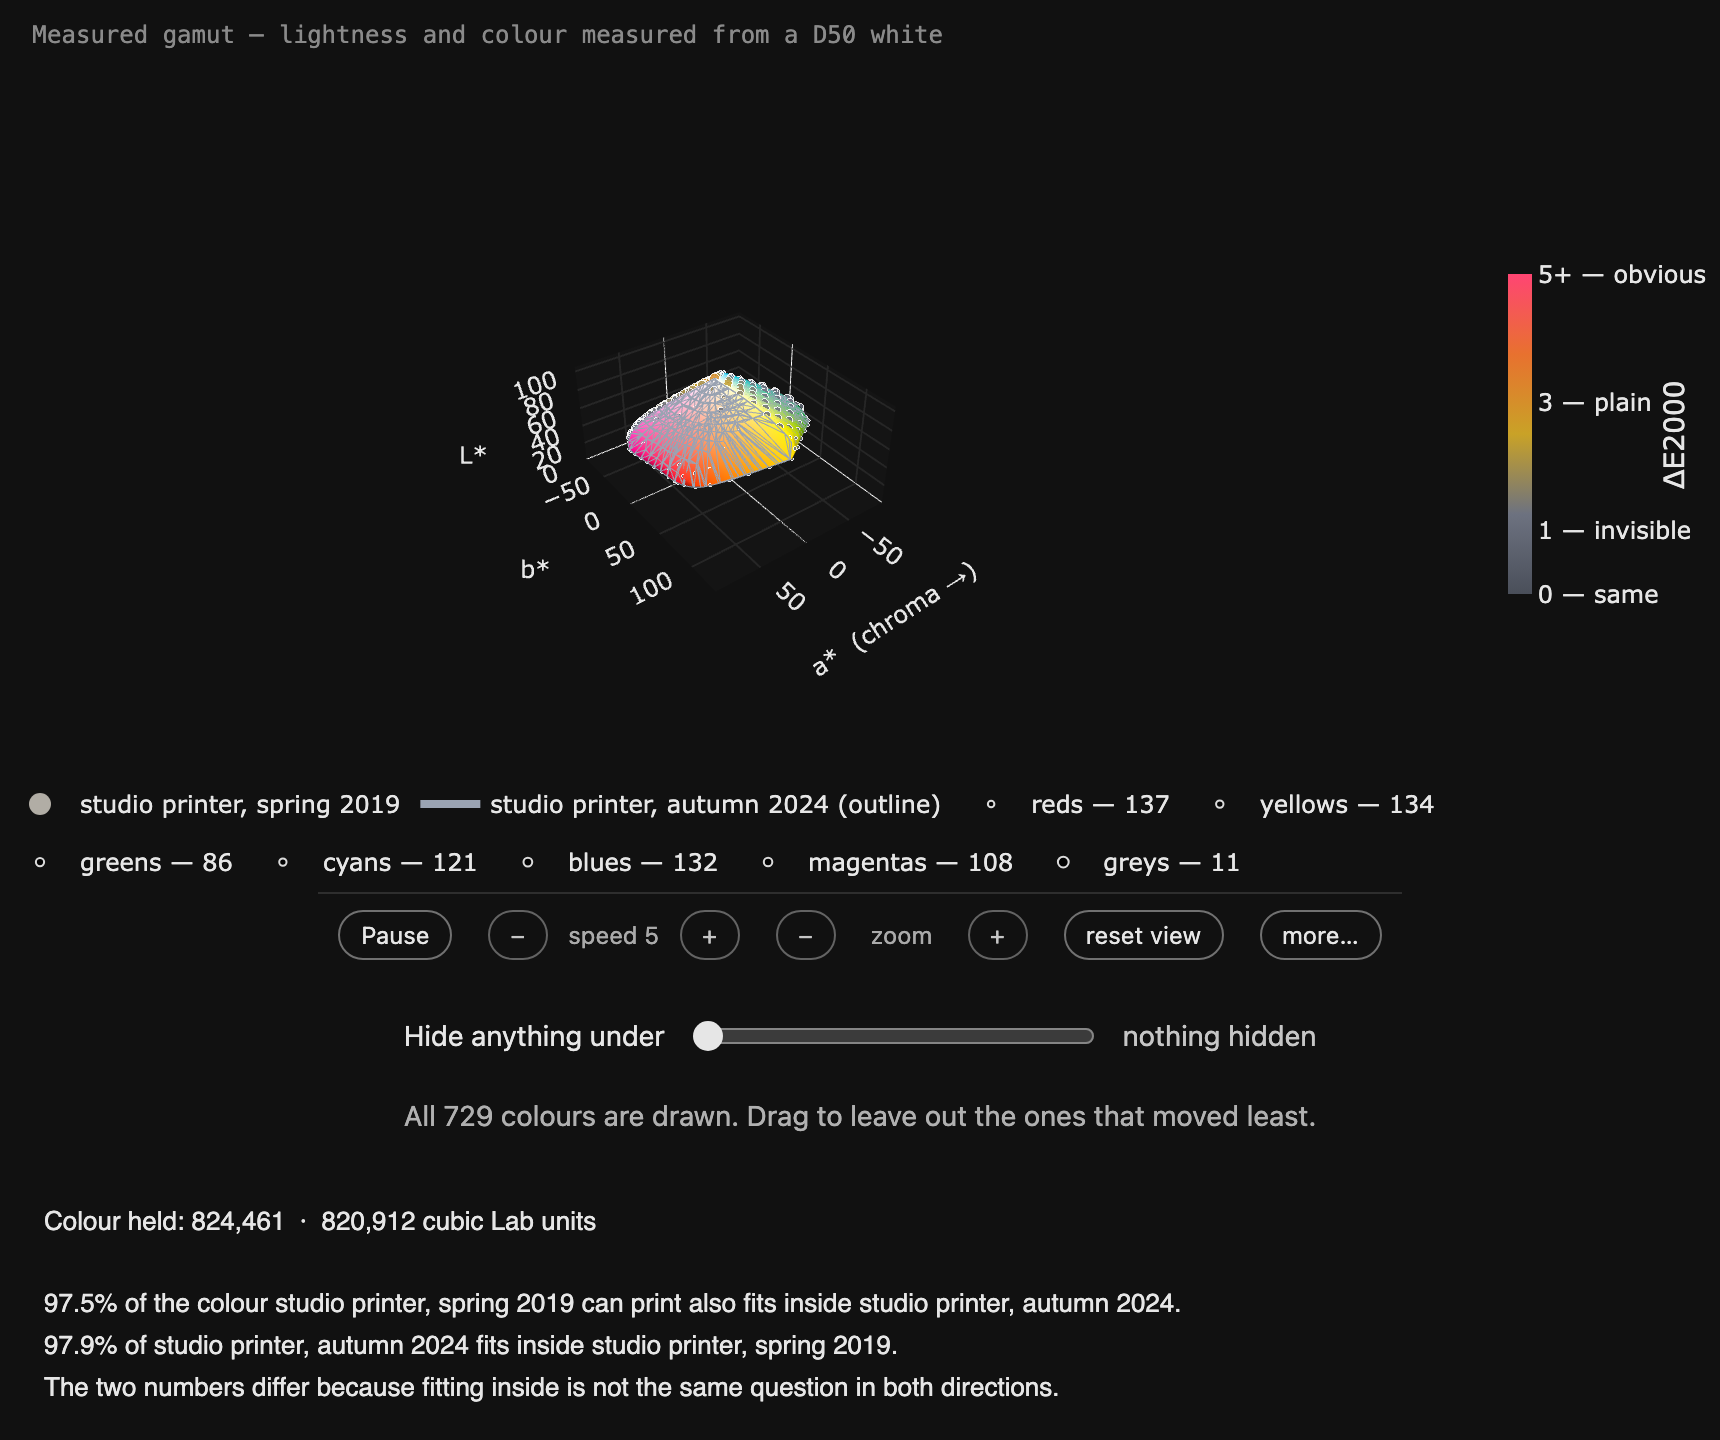
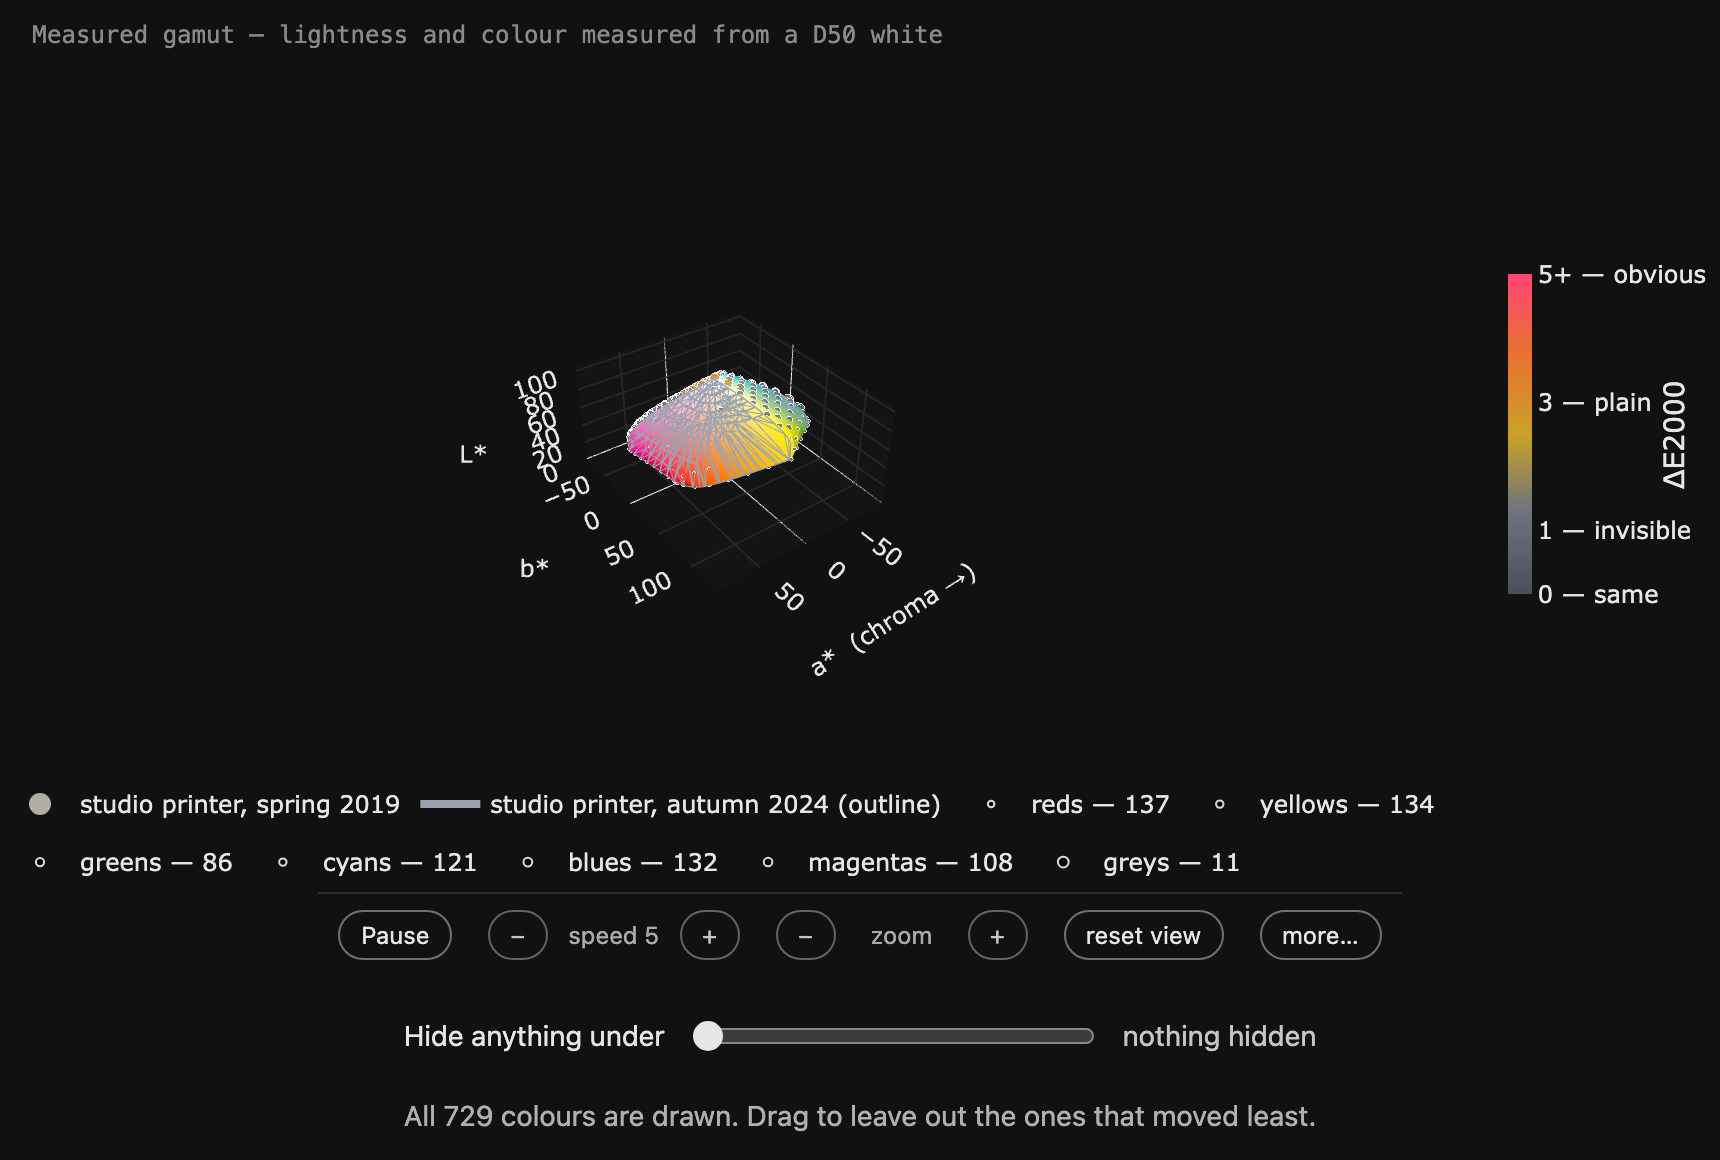
The showcase frames stop pretending, and start working
Two faults reported from the live site, and they share a cause: every frame on
that page is a PHOTOGRAPH of the viewer, so the control strip in it — Pause,
speed, zoom, reset view, more… — is part of the picture.

"the controls on the showcase page invited me to try right there - which is
misleading". They are honest now. A plain click replaces the still, in place,
with the real saved page in a frame, and a line appears saying it is live and
offering the full width in its own tab. Anything but a plain click — a new
tab, a middle click, a modifier — is left to the browser, so the link still
behaves like a link. Loaded only when asked, deliberately: the pages are about
six megabytes each and eight of them on one page is not something anybody on
a phone would wait for.

Driven in both engines before committing: the still becomes an iframe with a
real plot inside it, the note appears, and the reader stays on the page —
chromium and webkit alike.

"the first example has the text in its 'frame' cut off at the bottom". That
was the poster: a plain 860x720 viewport screenshot, so the bottom edge fell
wherever it fell, which was the middle of a sentence. The shot now asks the
page which elements the edge would cut THROUGH and stops above the highest of
them — so it ends under the control strip, a whole thing to look at, and never
mid-word. Written to work for a 3D scene, a graph and a flat cut alike, since
the first attempt keyed on a control strip that only scene pages have and
[…]

diff --git a/docs/showcase/index.html b/docs/showcase/index.html
@@ -22,6 +22,27 @@
              transition: border-color .15s; }
   figure a:hover { border-color: #ff4573; }
   figure img { width: 100%; height: auto; display: block; }
+  /* THE PICTURE OFFERS TO BECOME THE REAL THING. Every frame here shows the
+     viewer's own control strip -- Pause, speed, zoom, reset view, more... --
+     because it is a photograph OF the viewer. Reported from the page: "the
+     controls on the showcase page invited me to try right there - which is
+     misleading". They are honest now: press once and the photograph is
+     replaced, in place, by the page itself. */
+  figure a { position: relative; }
+  .live { position: absolute; left: 0; top: 0; right: 0; bottom: 0;
+          display: flex; align-items: center; justify-content: center;
+          background: rgba(9,10,13,.34); border: 0; cursor: pointer;
+          font: 600 .95rem/1 inherit; color: #fff; letter-spacing: .01em;
+          opacity: 0; transition: opacity .15s; }
+  figure a:hover .live, .live:focus-visible { opacity: 1; }
+  .live span { background: #ff4573; padding: .7rem 1.15rem;
+               border-radius: 999px; box-shadow: 0 6px 22px rgba(0,0,0,.45); }
+  .live small { display: block; font-weight: 400; font-size: .78rem;
+                opacity: .85; margin-top: .2rem; }
+  figure iframe { width: 100%; height: 78vh; min-height: 520px; border: 0;
+                  display: block; background: #0f1115; }
+  .after { font-size: .85rem; color: #7c8390; margin-top: .45rem; }
+  .after a { display: inline; border: 0; line-height: inherit; }
   figcaption { font-size: .85rem; color: #7c8390; line-height: 1.5;
                margin-top: .45rem; }
   .open { font-size: .95rem; }
@@ -69,7 +90,7 @@ agree on.</p>
   <a href="pages/01-two-papers-both-ways.html"><img
      src="shots/01-two-papers-both-ways.png"
      alt="A matte paper drawn solid inside a gloss paper's wireframe cage,
-          with both containment percentages written under the shape"></a>
+          with both containment percentages written under the shape"><span class="live"><span>Press to take control<small>the real viewer, right here</small></span></span></a>
   <figcaption>The matte cotton solid, the baryta gloss as a cage around it.
   Saved turning; the strip underneath is yours.</figcaption>
 </figure>
@@ -90,7 +111,7 @@ another</h2>
   <a href="pages/02-against-adobe-rgb.html"><img
      src="shots/02-against-adobe-rgb.png"
      alt="The gloss paper drawn solid inside the Adobe RGB space's coloured
-          cage"></a>
+          cage"><span class="live"><span>Press to take control<small>the real viewer, right here</small></span></span></a>
   <figcaption>The gloss inside Adobe&nbsp;RGB&nbsp;(1998), drawn as a cage
   in its own colours.</figcaption>
 </figure>
@@ -109,7 +130,7 @@ sRGB</a>.</p>
   <a href="pages/04-a-chart-in-ink-amounts.html"><img
      src="shots/04-a-chart-in-ink-amounts.png"
      alt="A cloud of chart patches drawn inside the printer's RGB cube, the
-          out-of-reach ones picked out"></a>
+          out-of-reach ones picked out"><span class="live"><span>Press to take control<small>the real viewer, right here</small></span></span></a>
   <figcaption>The chart in the printer’s own ink amounts — every patch a
   point in the RGB cube, the survivors under a skin.</figcaption>
 </figure>
@@ -128,7 +149,7 @@ never what it is judged by.<sup><a href="#f3">[3]</a></sup></p>
   <a href="pages/06-a-year-on-the-shelf.html"><img
      src="shots/06-a-year-on-the-shelf.png"
      alt="The gloss paper's shape painted red where colour is out of reach
-          after a year, grey where it is not"></a>
+          after a year, grey where it is not"><span class="live"><span>Press to take control<small>the real viewer, right here</small></span></span></a>
   <figcaption>Red is out of reach a year later; grey is still within it.
   The loss sits where a fading brightener puts it — in the blues.</figcaption>
 </figure>
@@ -148,7 +169,7 @@ see”</h2>
   <a href="pages/07-five-batches-nothing-to-see.html"><img
      src="shots/07-five-batches-nothing-to-see.png"
      alt="A drift graph of five batch profiles staying inside the
-          nobody-can-see-this band"></a>
+          nobody-can-see-this band"><span class="live"><span>Press to take control<small>the real viewer, right here</small></span></span></a>
   <figcaption>Five batches over a year, every step inside the band nobody
   can see. The verdict is written on the page.</figcaption>
 </figure>
@@ -168,7 +189,7 @@ it</h2>
 <figure>
   <a href="pages/08-the-batch-where-something-happened.html"><img
      src="shots/08-the-batch-where-something-happened.png"
-     alt="A drift graph that is quiet for three steps and then jumps"></a>
+     alt="A drift graph that is quiet for three steps and then jumps"><span class="live"><span>Press to take control<small>the real viewer, right here</small></span></span></a>
   <figcaption>Quiet, quiet, a jump of ΔE 4.13, quiet. The page names the
   two deliveries it happened between.</figcaption>
 </figure>
@@ -189,7 +210,7 @@ anyway</h2>
   <a href="pages/09-two-shells-the-same-size.html"><img
      src="shots/09-two-shells-the-same-size.png"
      alt="Two nearly identical gamut shells with a cloud of colours between
-          them, coloured by how far each moved"></a>
+          them, coloured by how far each moved"><span class="live"><span>Press to take control<small>the real viewer, right here</small></span></span></a>
   <figcaption>The 2019 and 2024 profiles of one printer, volumes 0.43%
   apart, with the moved colours drawn between them.</figcaption>
 </figure>
@@ -210,7 +231,7 @@ size</a>.</p>
   <a href="pages/10-the-cut-at-54.html"><img
      src="shots/10-the-cut-at-54.png"
      alt="A flat cut through two papers at mid lightness, one clearly wider
-          than the other"></a>
+          than the other"><span class="live"><span>Press to take control<small>the real viewer, right here</small></span></span></a>
   <figcaption>The cut at L*&nbsp;54: the matte cotton (red) is the wider
   paper in the mid-tones.</figcaption>
 </figure>
@@ -218,7 +239,7 @@ size</a>.</p>
   <a href="pages/11-the-cut-at-20.html"><img
      src="shots/11-the-cut-at-20.png"
      alt="A flat cut through the same two papers deep in the shadows, where
-          the other paper is the larger one"></a>
+          the other paper is the larger one"><span class="live"><span>Press to take control<small>the real viewer, right here</small></span></span></a>
   <figcaption>The same two papers at L*&nbsp;20: down in the shadows the
   rag is the one still standing.</figcaption>
 </figure>
@@ -355,3 +376,38 @@ on <a href="../index.html">the main page</a>.</p>
 </footer>
 
 </main>
+
+<script>
+// A PHOTOGRAPH THAT BECOMES THE PAGE. Every frame on this page shows the
+// viewer's own control strip, because it is a photograph OF the viewer --
+// which invited a click it could not honour. A plain click now swaps the
+// still for the real saved page, in place, so those controls are the ones
+// you can use. Anything but a plain click -- a new tab, a middle click, a
+// modifier -- is left alone, so the link still behaves like a link.
+//
+// Loaded only when asked, deliberately: the eight pages are about six
+// megabytes each, and embedding them all would make a page nobody on a phone
+// would wait for.
+(function () {
+  document.querySelectorAll('figure a[href$=".html"]').forEach(function (link) {
+    link.addEventListener('click', function (ev) {
+      if (ev.defaultPrevented || ev.button !== 0
+          || ev.metaKey || ev.ctrlKey || ev.shiftKey || ev.altKey) return;
+      ev.preventDefault();
+      var href = link.getAttribute('href');
+      var shot = link.querySelector('img');
+      var frame = document.createElement('iframe');
+      frame.src = href;
+      frame.setAttribute('title', shot ? shot.alt : 'the viewer');
+      var after = document.createElement('p');
+      after.className = 'after';
+      after.innerHTML = 'This one is live — turn it, zoom it, click a name in '
+        + 'the key to hide it. <a href="' + href + '" target="_blank" '
+        + 'rel="noopener">Open it in its own tab</a> for the whole width.';
+      var box = link.parentNode;
+      link.replaceWith(frame);
+      box.insertBefore(after, frame.nextSibling);
+    });
+  });
+})();
+</script>

diff --git a/scripts/make_showcase_shots.py b/scripts/make_showcase_shots.py
@@ -89,7 +89,45 @@ def main() -> int:
                 continue
             page.wait_for_timeout(1500)
             target = SHOTS / (source.stem + ".png")
-            page.screenshot(path=str(target))
+            # CUT WHERE THE PAGE HAS A JOIN, not at whatever pixel the window
+            # happens to end at. A plain viewport screenshot is 720 px of
+            # whatever is there, and what was there was the middle of a
+            # sentence: reported from the live site, "the first example has
+            # the text in its frame cut off at the bottom". A poster with half
+            # a sentence in it looks like a broken page rather than a picture
+            # of a working one.
+            #
+            # So the shot ends just under the control strip -- picture, key,
+            # strip, which is a whole thing to look at and the part the card
+            # is advertising. The prose below it belongs to the page, and the
+            # page is one press away.
+            # Asked of the page itself, so it works for a 3D scene, a graph
+            # and a flat cut alike: which elements does the bottom edge cut
+            # THROUGH, and where does the highest of them begin? Cut there.
+            cut = page.evaluate("""(function () {
+              var edge = 720, highest = edge;
+              var all = document.body.querySelectorAll('*');
+              for (var i = 0; i < all.length; i++) {
+                var el = all[i];
+                if (!el.textContent || !el.textContent.trim()) continue;
+                if (el.children.length) continue;      // leaves carry the words
+                var b = el.getBoundingClientRect();
+                if (b.height <= 0 || b.width <= 0) continue;
+                if (b.top < edge && b.bottom > edge && b.top < highest)
+                  highest = b.top;
+              }
+              return Math.floor(highest === edge ? edge : highest - 6);
+            })()""")
+            if cut and 240 < cut <= 720:
+                page.screenshot(path=str(target),
+                                clip={"x": 0, "y": 0, "width": 860,
+                                      "height": cut})
+            else:
+                # No strip found, or it sits outside the window: fall back to
+                # the plain shot rather than guess, and say so.
+                print(f"  {source.stem}: no control strip to cut under "
+                      f"(measured {cut}) — full window")
+                page.screenshot(path=str(target))
             print(f"  {target.name:45s} "
                   f"{target.stat().st_size / 1024:6.0f} kB")
         browser.close()
